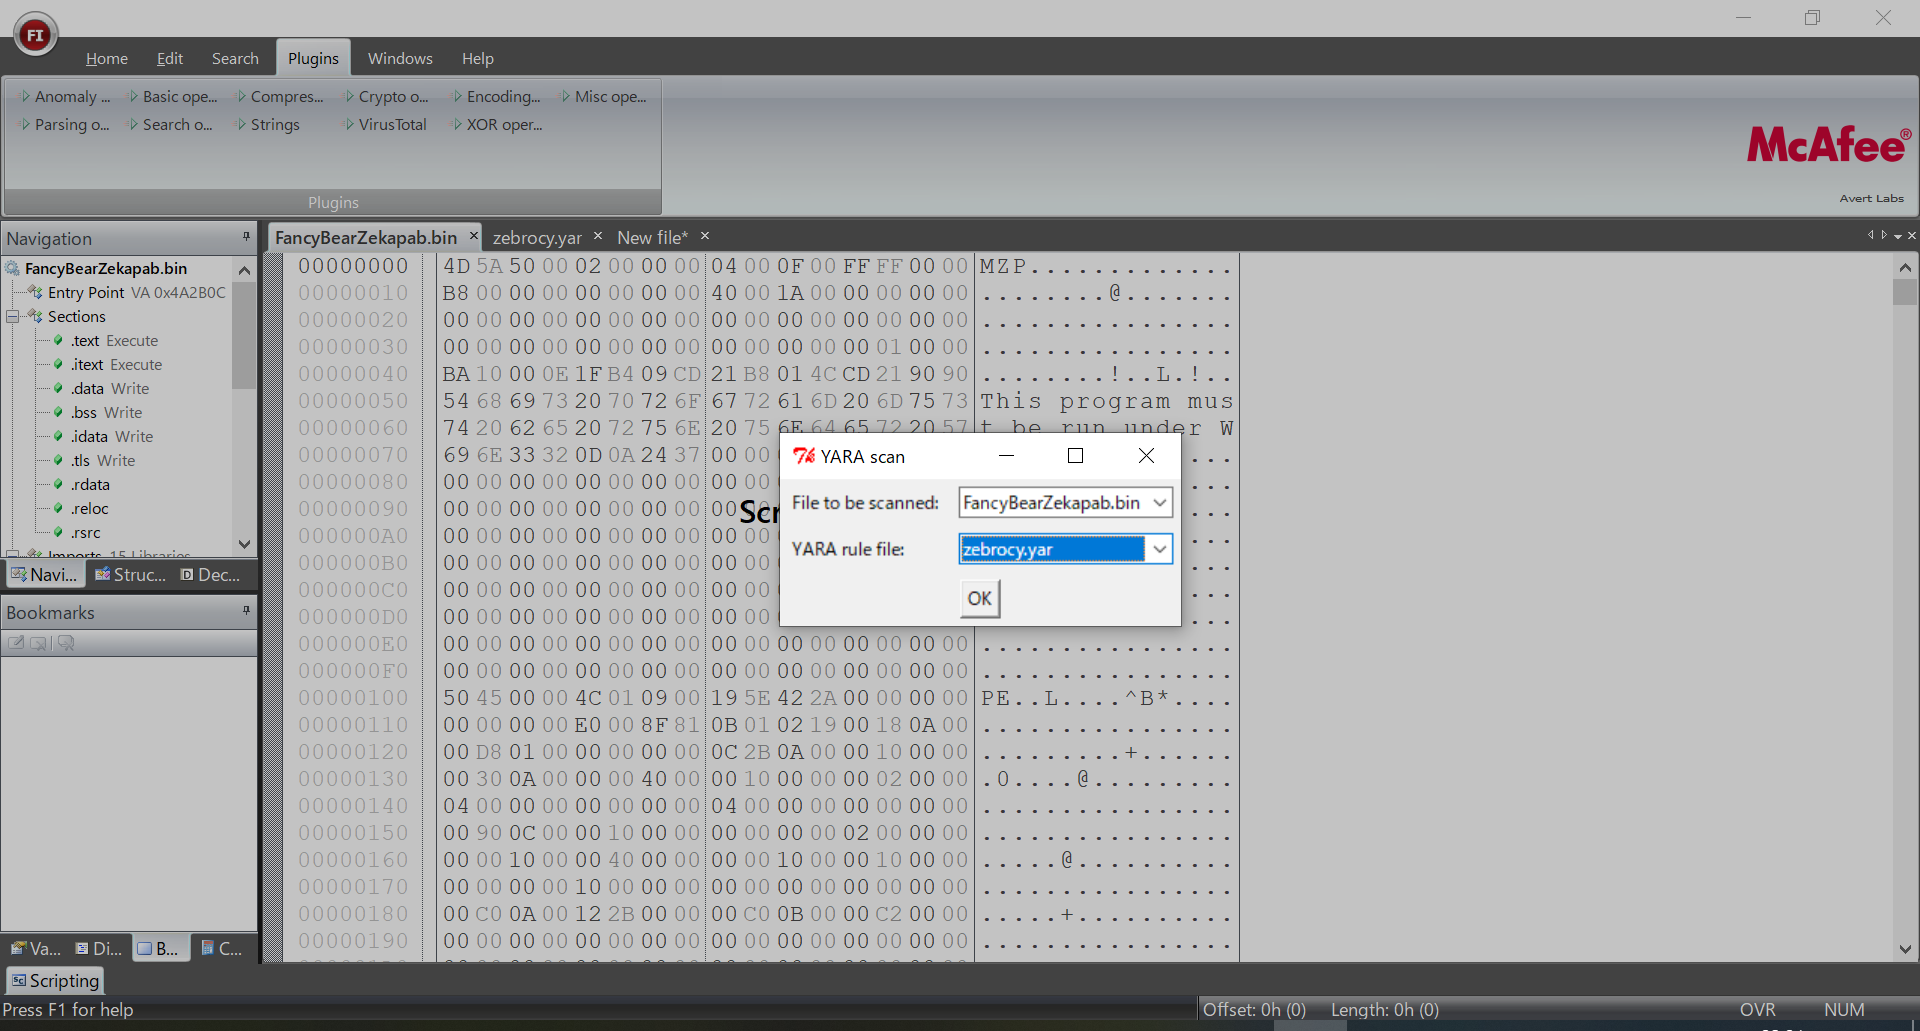
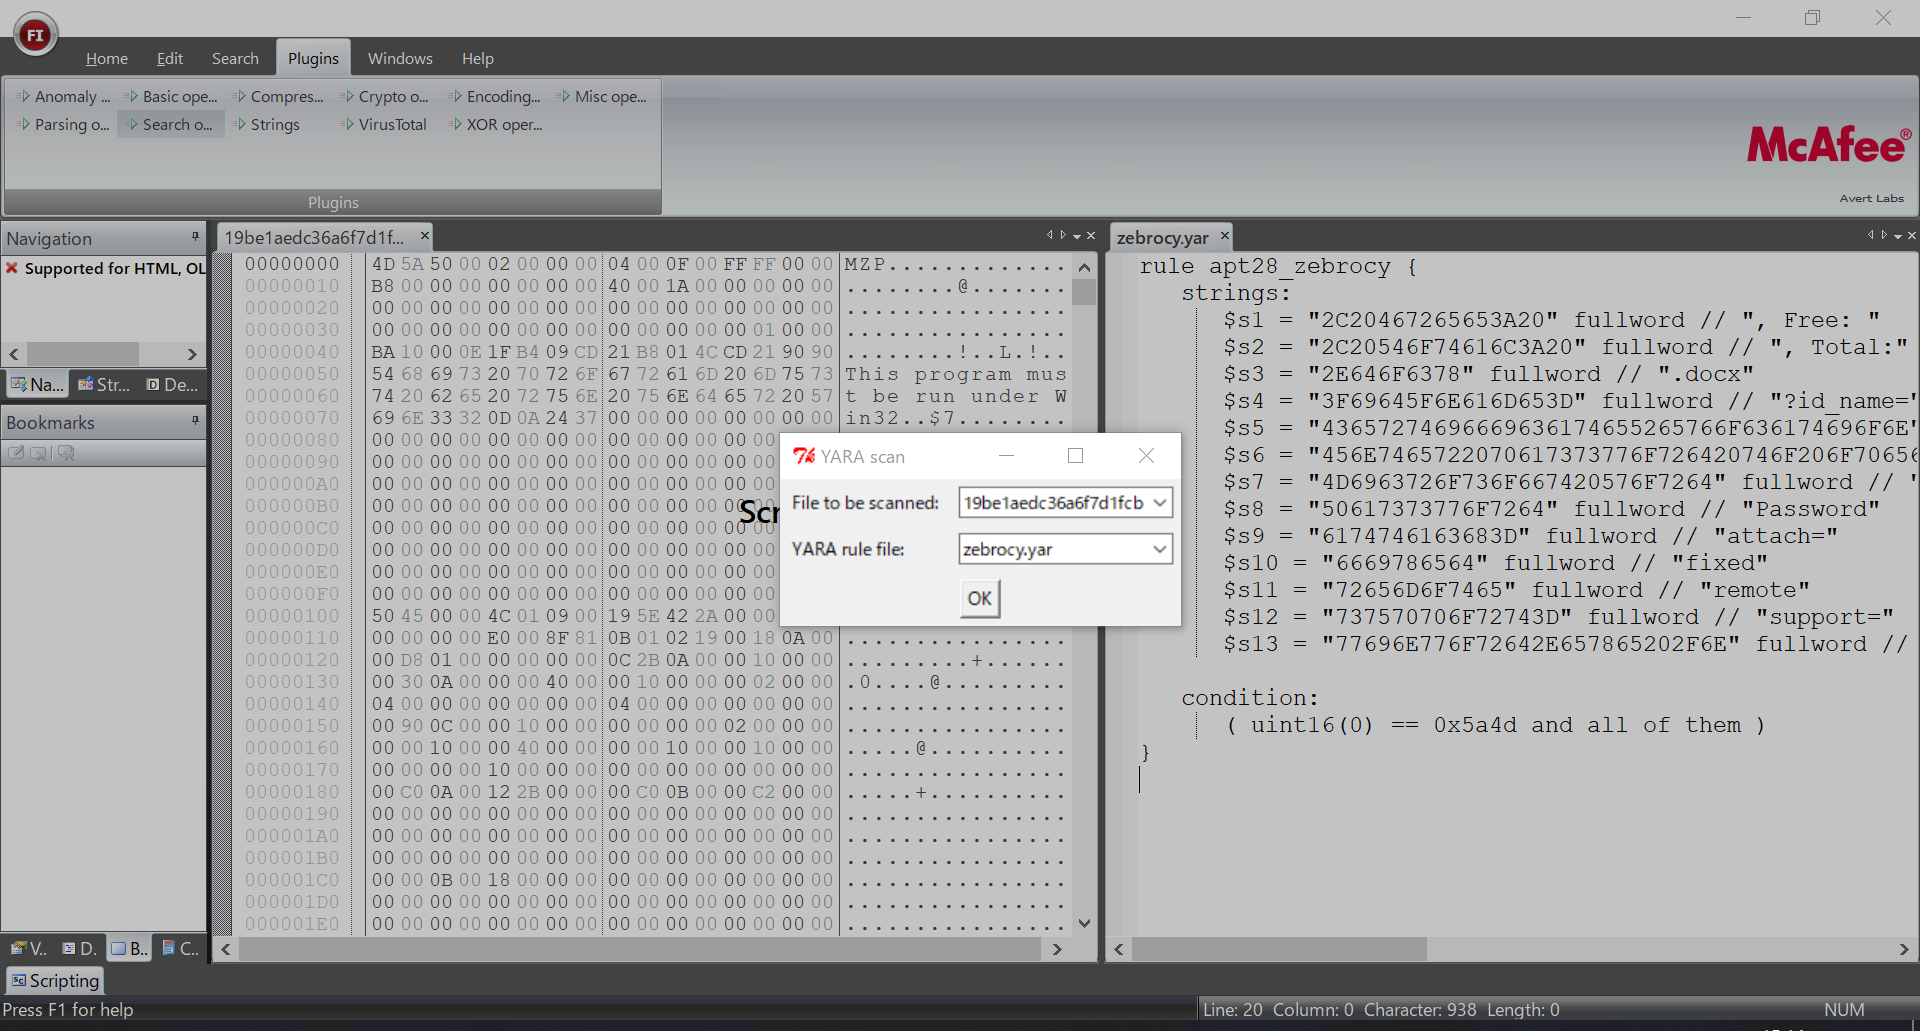
- Modify descriptions. - Update screenshots.

diff --git a/README.ja.md b/README.ja.md
@@ -1,6 +1,8 @@
-# FileInsight-plugins: McAfee FileInsight バイナリエディタ用のプラグイン
+# FileInsight-plugins: McAfee FileInsight バイナリエディタ用の解析ツールボックス
 
-これらのプラグインは、マルウェア解析に関する様々なデコード作業に便利です。（例：文書ファイル型のマルウェアからマルウェアの実行ファイルやダミーの文書ファイルを抽出する）
+FileInsight-plugins は McAfee FileInsight バイナリエディタ用のプラグイン集です。
+暗号の復号、圧縮の展開、XOR された文字列の検索、YARA ルールでのスキャン等、多数の機能を追加できます。
+マルウェア解析に関する様々なデコード作業に便利です。（例：文書ファイル型のマルウェアからマルウェアの実行ファイルやダミーの文書ファイルを抽出する）
 
 ## スクリーンショット
 ![screenshot1.png](screenshot1.png)

diff --git a/README.md b/README.md
@@ -1,6 +1,8 @@
-# FileInsight-plugins: plugins for McAfee FileInsight hex editor
+# FileInsight-plugins: an analysis toolbox for McAfee FileInsight hex editor
 
-These plugins would be useful for various kind of decoding tasks in malware analysis (e.g. extracing malware executables and decoy documents from malicious document files).
+FileInsight-plugins is a collection of plugins for McAfee FileInsight hex editor.
+It adds many capabilities such as decryption, decompression, searching XOR-ed text strings, scanning with a YARA rule, and more!
+It is useful for various kind of decoding tasks in malware analysis (e.g. extracing malware executables and decoy documents from malicious document files).
 
 ## Screenshots
 ![screenshot1.png](screenshot1.png)
